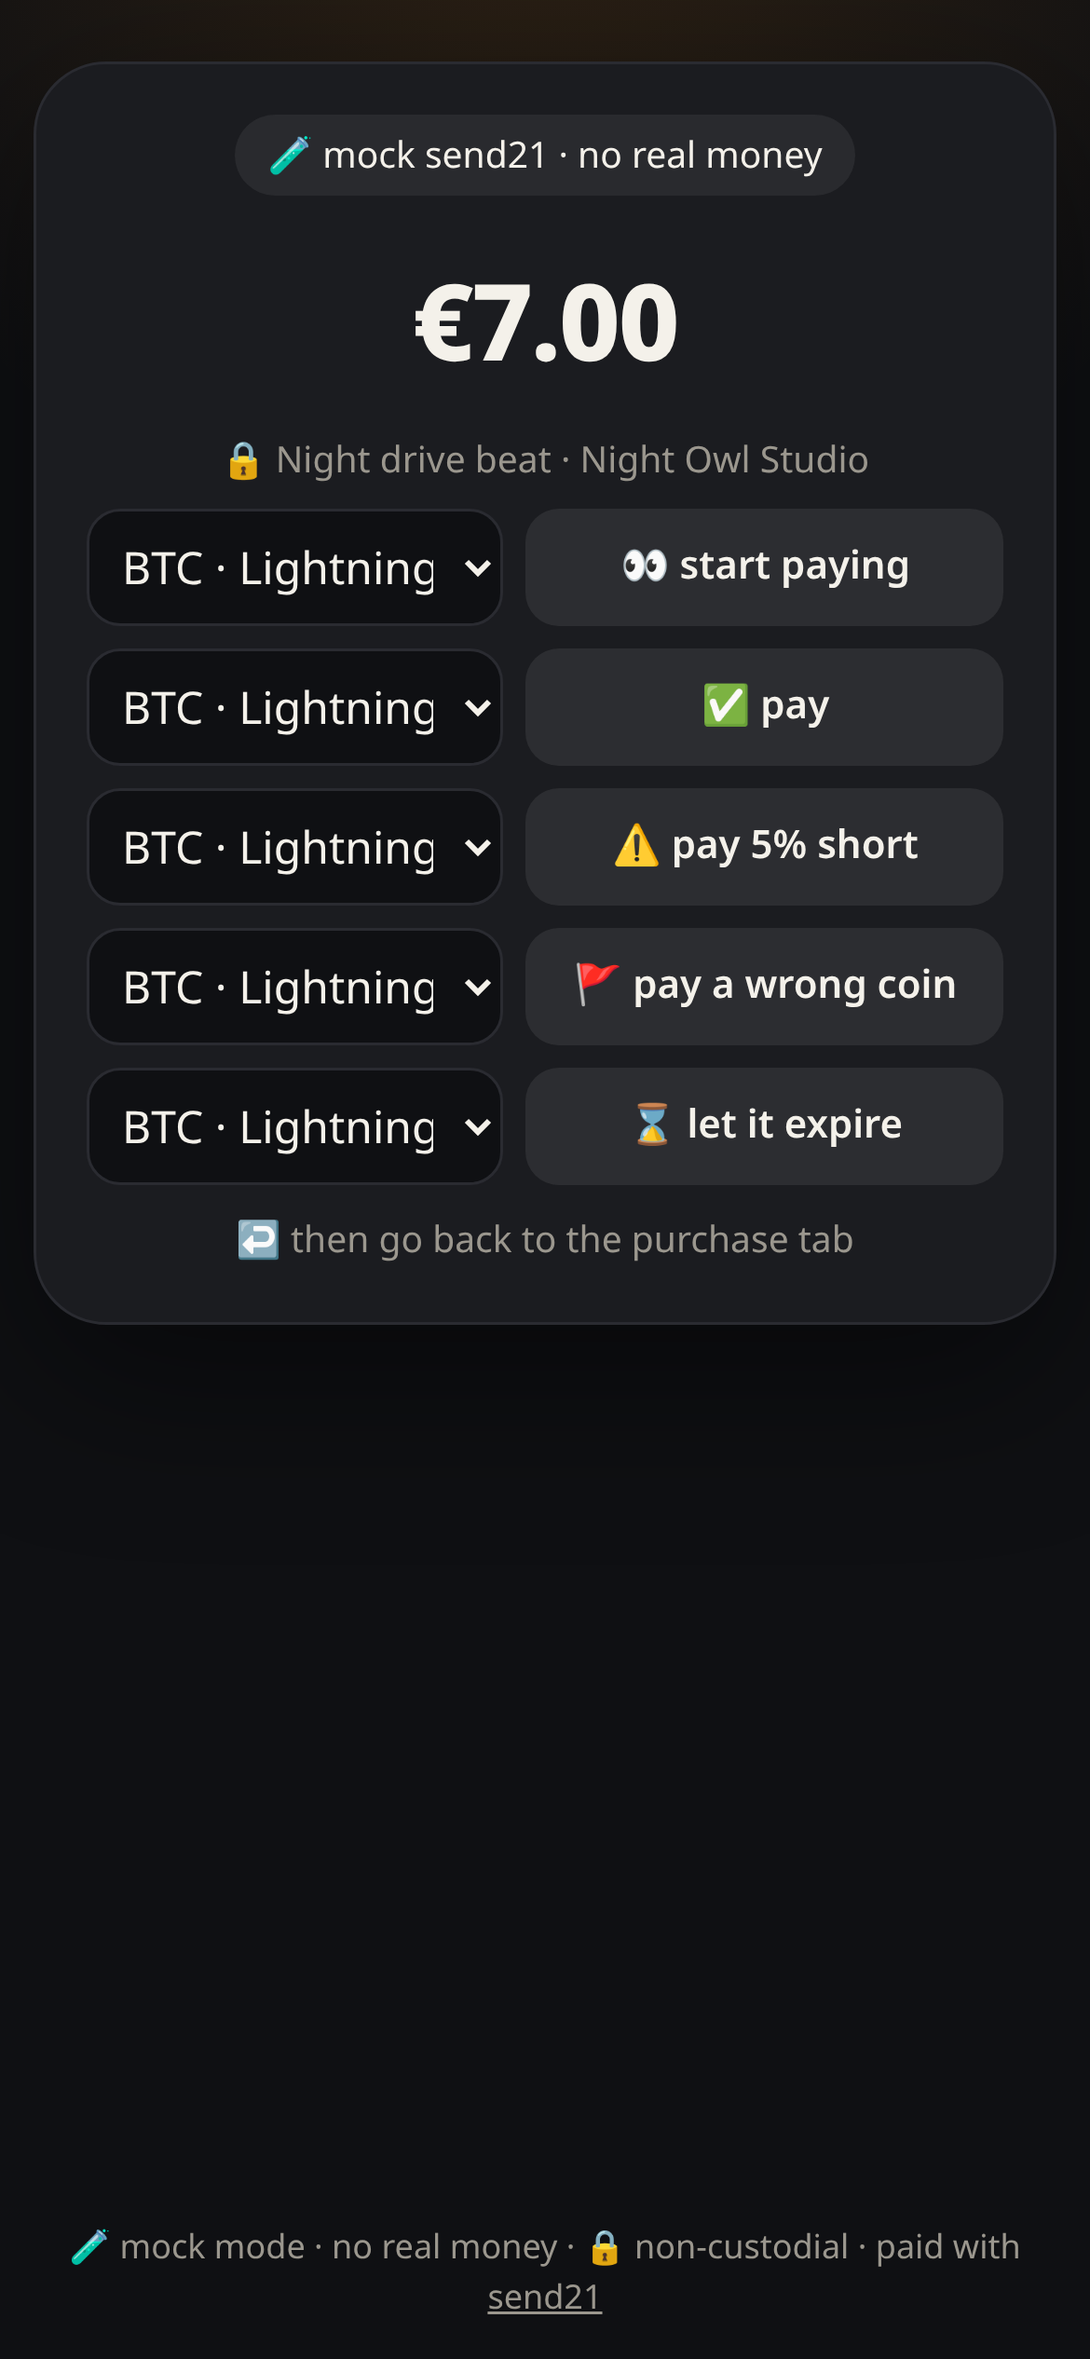
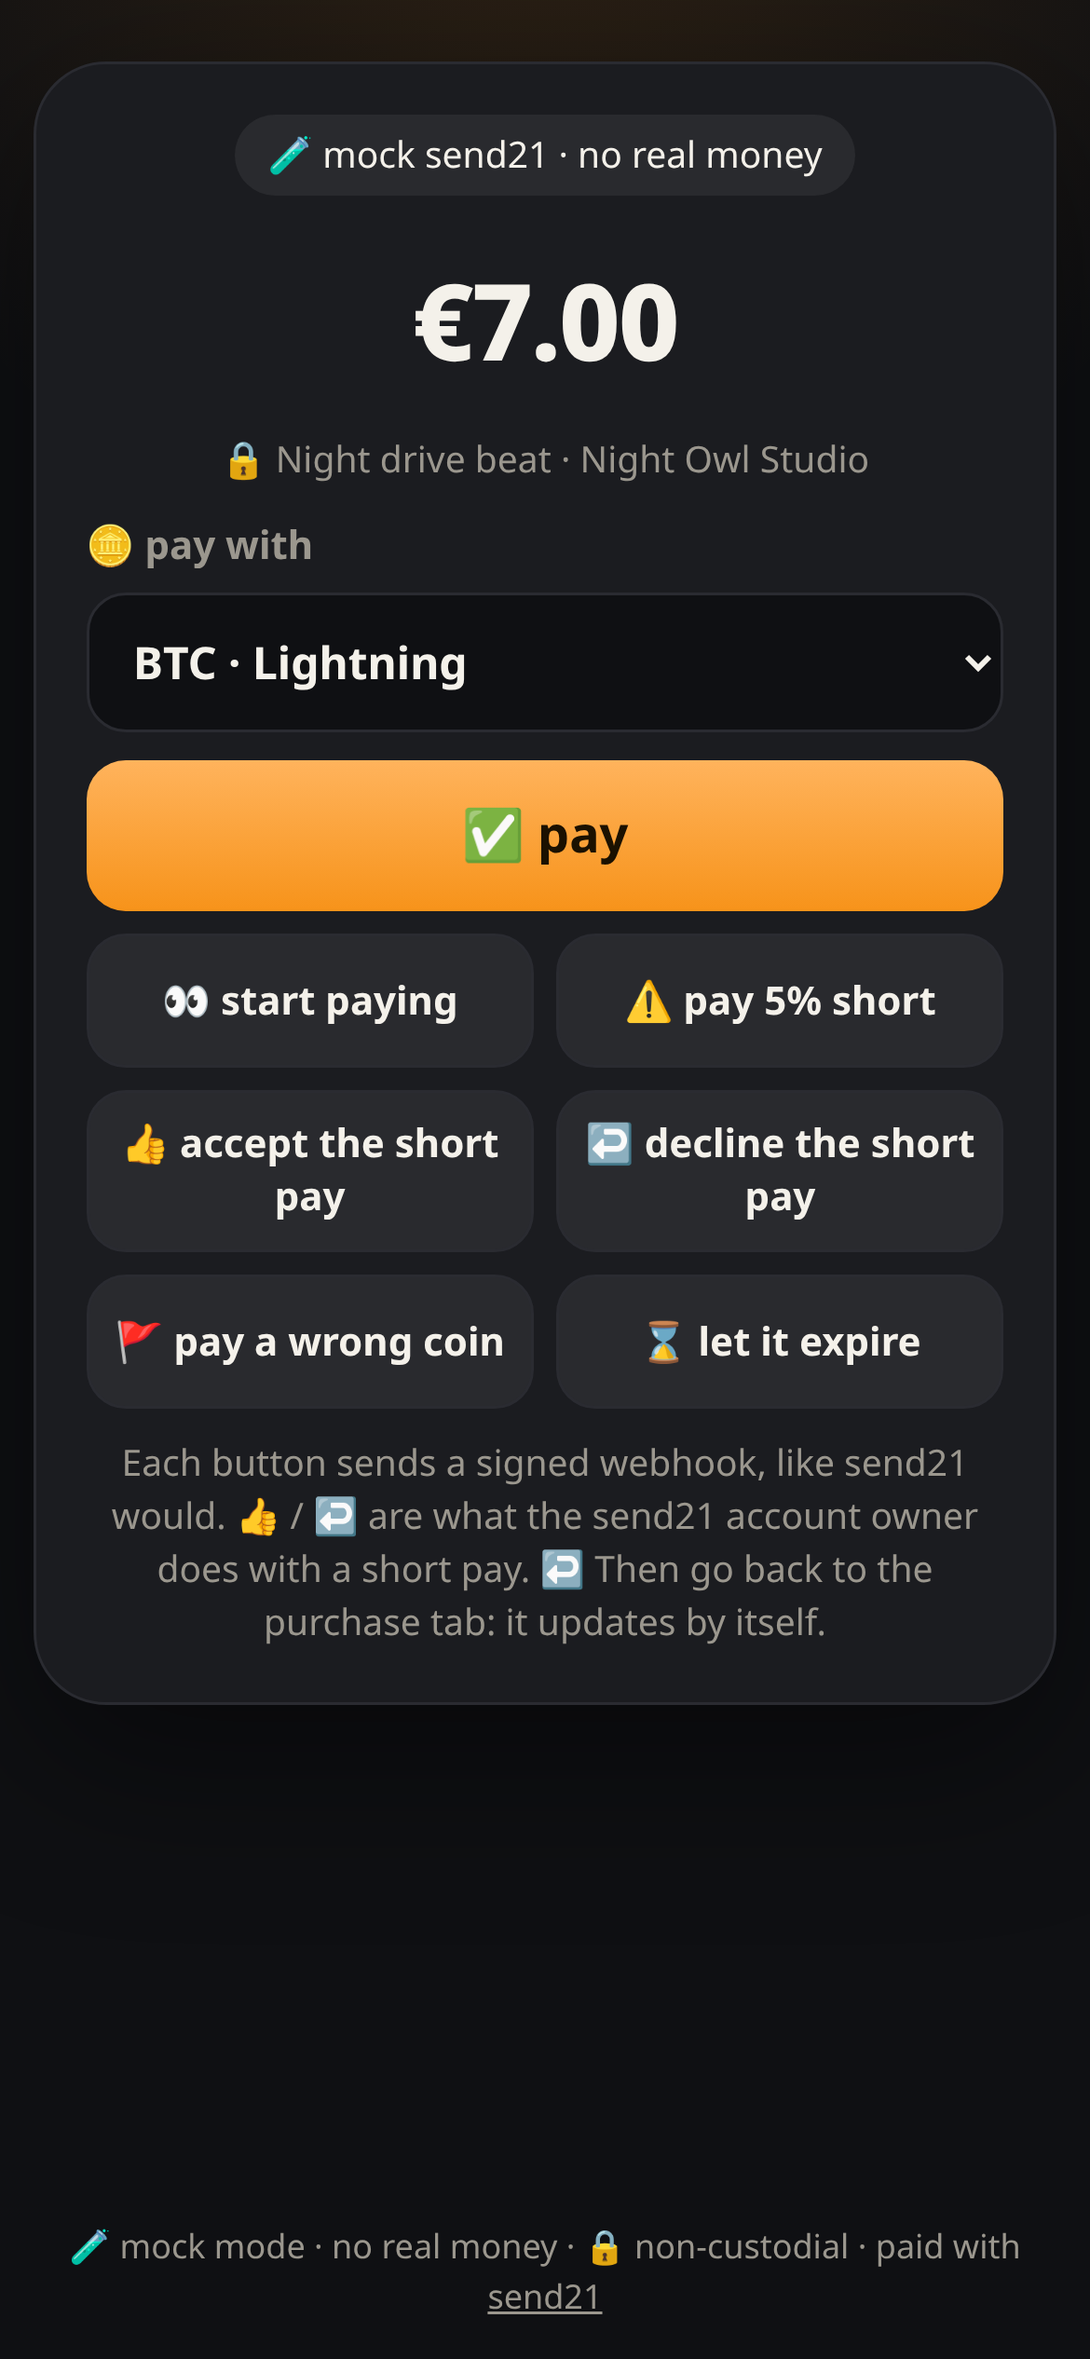
ux: wider centered catalog, clearer mock pay page, ways back from dead ends
- mock pay page: one coin picker, 👍 accept / ↩ decline for short pays,
  unknown actions 404 instead of silently expiring the purchase
- catalog: centered grid that uses desktop width, subtitle, empty state,
  smaller lock badge that no longer covers the file emoji, hover lift
- expired/used/unknown download pages get a 🛍 browse files button
- visible orange focus ring, favicon (no more 404 on every page)
- refreshed strip and mock pay screenshots

Changed region(s): [[0.0615, 0.2184, 0.9231, 0.7176], [0.5231, 0.468, 0.8923, 0.5304]]

diff --git a/src/pages.ts b/src/pages.ts
@@ -7,11 +7,11 @@ import type { Catalog, FileItem, PayOption, Purchase } from "./types.js";
 
 export const esc = (s: unknown) => String(s).replace(/[&<>"']/g, (c) => `&#${c.charCodeAt(0)};`);
 
-export function layout(title: string, body: string, opts: { script?: string; mock?: boolean } = {}): string {
+export function layout(title: string, body: string, opts: { script?: string; mock?: boolean; wide?: boolean } = {}): string {
   return `<!doctype html>
 <html lang="en"><head><meta charset="utf-8"><meta name="viewport" content="width=device-width,initial-scale=1">
-<title>${esc(title)}</title><meta name="robots" content="noindex"><link rel="stylesheet" href="/paywall.css">${opts.script ? `<script src="${esc(opts.script)}" defer></script>` : ""}</head>
-<body><main class="wrap">${body}</main>
+<title>${esc(title)}</title><meta name="robots" content="noindex"><meta name="theme-color" content="#0f1013"><link rel="icon" href="data:,"><link rel="stylesheet" href="/paywall.css">${opts.script ? `<script src="${esc(opts.script)}" defer></script>` : ""}</head>
+<body><main class="wrap${opts.wide ? " wide" : ""}">${body}</main>
 <footer class="foot">${opts.mock ? "🧪 mock mode · no real money · " : ""}🔒 non-custodial · paid with <a href="https://send21.io">send21</a></footer></body></html>`;
 }
 
@@ -28,9 +28,9 @@ const meta = (f: FileItem) => `<p class="meta">${esc(kindLabel(f.kind))} · ${es
 export function indexPage(c: Catalog, mock: boolean): string {
   return layout(
     c.creator,
-    `<header class="hero"><p class="kicker">🛍 files by</p><h1>${esc(c.creator)}</h1></header>
-<ul class="grid">${c.files.map((f) => `<li><a class="mini" href="/f/${esc(f.slug)}">${fileTile(f, true)}<b>${esc(f.title)}</b><span>${esc(formatFiat(f.price, c.currency))}</span></a></li>`).join("")}</ul>`,
-    { mock },
+    `<header class="hero"><p class="kicker">🛍 files by</p><h1>${esc(c.creator)}</h1><p class="sub">🔓 pay once with crypto · ⬇ download right away · no account</p></header>
+${c.files.length ? `<ul class="grid">${c.files.map((f) => `<li><a class="mini" href="/f/${esc(f.slug)}">${fileTile(f, true)}<b>${esc(f.title)}</b><span class="p">${esc(formatFiat(f.price, c.currency))}</span></a></li>`).join("")}</ul>` : '<article class="card center"><p class="huge">📭</p><p>no files yet</p><p class="small">add one with <code>npm run file:add</code></p></article>'}`,
+    { mock, wide: true },
   );
 }
 
@@ -99,7 +99,7 @@ const TOKEN_ERR = {
 
 export function tokenErrorPage(kind: keyof typeof TOKEN_ERR, mock: boolean): string {
   const [icon, title, why] = TOKEN_ERR[kind];
-  return layout(title, `<article class="card center"><p class="huge">${icon}</p><h1>${esc(title)}</h1><p class="small">${esc(why)}</p><p class="small">🔖 Open your purchase page again for a fresh link.</p></article>`, { mock });
+  return layout(title, `<article class="card center"><p class="huge">${icon}</p><h1>${esc(title)}</h1><p class="small">${esc(why)}</p><p class="small">🔖 Open your purchase page again for a fresh link.</p><a class="cta ghost" href="/">🛍 browse files</a></article>`, { mock });
 }
 
 export function errorPage(msg: string, mock: boolean): string {
@@ -136,15 +136,17 @@ ${review.length ? `<h2>🚩 Review</h2><ul class="list">${review.map((p) => `<li
 
 // ---------- mock send21 pay page ----------
 
-export function mockPayPage(entry: { fiatAmount: number; fiatCurrency: string; memo: string; options: PayOption[] }, token: string): string {
+export function mockPayPage(entry: { fiatAmount: number; fiatCurrency: string; memo: string; options: PayOption[] }, token: string, sent?: { ok: boolean; events: string }): string {
   const t = esc(token);
   const coins = entry.options.map((o, i) => `<option value="${i}">${esc(`${o.currency.toUpperCase()} · ${o.method ?? o.network}`)}</option>`).join("");
-  const actions = [["seen", "👀 start paying"], ["paid", "✅ pay"], ["short", "⚠ pay 5% short"], ["wrong", "🚩 pay a wrong coin"], ["expire", "⌛ let it expire"]];
+  const actions = [["paid", "✅ pay"], ["seen", "👀 start paying"], ["short", "⚠ pay 5% short"], ["accept", "👍 accept the short pay"], ["decline", "↩ decline the short pay"], ["wrong", "🚩 pay a wrong coin"], ["expire", "⌛ let it expire"]];
   return layout(
     "mock pay · send21",
     `<article class="card center"><p class="pill">🧪 mock send21 · no real money</p><p class="price">${esc(formatFiat(entry.fiatAmount, entry.fiatCurrency))}</p><p class="small">${esc(entry.memo)}</p>
-${actions.map(([a, l]) => `<form class="mockrow" method="post" action="/mock/pay/${t}/${a}"><select name="coin" aria-label="coin">${coins}</select><button>${l}</button></form>`).join("")}
-<p class="small">↩ then go back to the purchase tab</p></article>`,
+${sent ? `<p class="pill ${sent.ok ? "ok" : "bad"}" role="status">${sent.ok ? "📨 sent" : "❌ refused"} <code>${esc(sent.events)}</code></p>` : ""}
+<form method="post" action="/mock/pay/${t}/paid" class="mockform"><label for="coin">🪙 pay with</label><select id="coin" name="coin">${coins}</select>
+<div class="acts">${actions.map(([a, l]) => `<button formaction="/mock/pay/${t}/${a}"${a === "paid" ? ' class="main"' : ""}>${l}</button>`).join("")}</div></form>
+<p class="small">Each button sends a signed webhook, like send21 would. 👍 / ↩ are what the send21 account owner does with a short pay. ↩ Then go back to the purchase tab: it updates by itself.</p></article>`,
     { mock: true },
   );
 }

diff --git a/src/server.ts b/src/server.ts
@@ -286,22 +286,30 @@ function mountMockPay(app: Express, secret: string, mock: NonNullable<AppDeps["m
       res.status(404).type("html").send(errorPage("🤷 unknown pay link", true));
       return;
     }
-    const body = mockEvent(entry, Number((req.body as { coin?: string })?.coin ?? 0), String(req.params.action));
-    const raw = JSON.stringify(body);
-    const deliveryId = randomUUID();
-    const r = await fetch(`${mock.selfUrl}/webhooks/send21`, {
-      method: "POST",
-      headers: { "content-type": "application/json", "x-send21-event": body.event, "x-send21-delivery": deliveryId, "x-send21-signature-v2": signV2(raw, deliveryId, Math.floor(Date.now() / 1000), secret) },
-      body: raw,
-    });
-    res.type("html").send(mockPayPage(entry.body, String(req.params.token)).replace("<p class=\"small\">↩", `<p class="pill">${r.ok ? "📨 sent" : "❌"} ${body.event}</p><p class="small">↩`));
+    const list = mockEvents(entry, Number((req.body as { coin?: string })?.coin ?? 0), String(req.params.action));
+    if (!list) {
+      res.status(404).type("html").send(errorPage("🤷 unknown mock action", true));
+      return;
+    }
+    let r = { ok: false, status: 0 };
+    for (const body of list) {
+      const raw = JSON.stringify(body);
+      const deliveryId = randomUUID();
+      r = await fetch(`${mock.selfUrl}/webhooks/send21`, {
+        method: "POST",
+        headers: { "content-type": "application/json", "x-send21-event": body.event, "x-send21-delivery": deliveryId, "x-send21-signature-v2": signV2(raw, deliveryId, Math.floor(Date.now() / 1000), secret) },
+        body: raw,
+      });
+      if (!r.ok) break;
+    }
+    res.status(r.ok ? 200 : 502).type("html").send(mockPayPage(entry.body, String(req.params.token), { ok: r.ok, events: list.map((b) => b.event).join(" → ") }));
   });
 }
 
 type MockEntry = NonNullable<ReturnType<ReturnType<typeof createMockClient>["requests"]["get"]>>;
 
-/** A webhook body shaped like send21's (docs/webhooks "Payload"), for one simulated action. */
-export function mockEvent(entry: MockEntry, coin: number, action: string) {
+/** Webhook bodies shaped like send21's (docs/webhooks "Payload") for one simulated action, or null for an unknown one. */
+export function mockEvents(entry: MockEntry, coin: number, action: string): { event: string; data: Record<string, unknown> }[] | null {
   const option = entry.body.options[coin] ?? entry.body.options[0]!;
   const units = option.currency === "Btc" ? 1e8 : option.currency === "Sol" || option.currency === "Eth" ? 1e9 : 1e6;
   const price = option.currency === "Btc" ? 60000 : option.currency === "Eth" ? 3000 : option.currency === "Sol" ? 150 : 1;
@@ -318,17 +326,28 @@ export function mockEvent(entry: MockEntry, coin: number, action: string) {
     sentAmount: (amountSats / units).toFixed(Math.log10(units)),
     occurredAt: new Date().toISOString(),
   };
+  const short = Math.round(amountSats * 0.95);
   const confirmed = { event: "draft.confirmed", data: { ...base, status: "Confirmed", txId: `mock-${randomUUID()}`, confirmations: 1 } };
   switch (action) {
     case "paid":
-      return confirmed;
+      return [confirmed];
     case "wrong": // a confirmed payment in a coin this purchase never offered: must be 🚩, never unlocked
-      return { ...confirmed, data: { ...confirmed.data, sentCurrency: "ETH", network: "Arbitrum" } };
+      return [{ ...confirmed, data: { ...confirmed.data, sentCurrency: "ETH", network: "Arbitrum" } }];
     case "seen":
-      return { event: "draft.seen", data: { ...base, status: "Seen", txId: `mock-${randomUUID()}`, confirmations: 0 } };
+      return [{ event: "draft.seen", data: { ...base, status: "Seen", txId: `mock-${randomUUID()}`, confirmations: 0 } }];
     case "short":
-      return { event: "draft.amount_mismatch", data: { ...base, status: "AwaitingPayment", reviewState: "pending", receivedAmountSats: Math.round(amountSats * 0.95) } };
+      return [{ event: "draft.amount_mismatch", data: { ...base, status: "AwaitingPayment", reviewState: "pending", receivedAmountSats: short } }];
+    // What the send21 account owner does with a short pay: accept (then draft.confirmed) or decline.
+    case "accept":
+      return [
+        { event: "draft.mismatch_accepted", data: { ...base, status: "AwaitingPayment", reviewState: "accepted", acceptReason: "close enough", receivedAmountSats: short } },
+        { ...confirmed, data: { ...confirmed.data, receivedAmountSats: short } },
+      ];
+    case "decline":
+      return [{ event: "draft.mismatch_rejected", data: { ...base, status: "AwaitingPayment", reviewState: "rejected", rejectReason: "too short", refund: "manual", receivedAmountSats: short } }];
+    case "expire":
+      return [{ event: "payment_request.expired", data: { paymentRequestId: entry.response.id, orderId: entry.body.orderId, opened: true, quoteRequested: false } }];
     default:
-      return { event: "payment_request.expired", data: { paymentRequestId: entry.response.id, orderId: entry.body.orderId, opened: true, quoteRequested: false } };
+      return null;
   }
 }

diff --git a/public/paywall.css b/public/paywall.css
@@ -5,6 +5,8 @@ body { margin: 0; min-height: 100vh; color: var(--ink); font: 16px/1.45 system-u
   background: radial-gradient(120% 60% at 50% -10%, #f7931a26, transparent 60%), var(--bg); display: flex; flex-direction: column; }
 a { color: var(--orange2); }
 .wrap { width: min(94vw, 440px); margin: 0 auto; padding: 22px 0 10px; flex: 1; }
+.wrap.wide { width: min(94vw, 960px); }
+.sub { color: var(--muted); margin: 0; font-size: 15px; }
 .foot { text-align: center; color: var(--muted); font-size: 12px; padding: 14px; }
 .foot a { color: var(--muted); }
 .hero { text-align: center; margin: 10px 0 18px; }
@@ -43,11 +45,16 @@ h2 { font-size: 15px; color: var(--muted); margin: 22px 0 8px; font-weight: 600;
 .s-expired { background: #ffffff10; color: var(--muted); }
 .qr { display: block; margin: 4px auto 14px; border-radius: 16px; background: #fff; padding: 8px; width: 220px; height: 220px; }
 .huge { font-size: 64px; margin: 6px 0; }
-.grid { list-style: none; padding: 0; display: grid; grid-template-columns: 1fr 1fr; gap: 12px; }
+.grid { list-style: none; padding: 0; display: grid; grid-template-columns: repeat(auto-fit, minmax(210px, 260px)); justify-content: center; gap: 14px; }
+@media (max-width: 480px) { .grid { grid-template-columns: 1fr 1fr; gap: 12px; } }
 .mini { display: flex; flex-direction: column; gap: 2px; background: var(--card); border: 1px solid var(--line); border-radius: 20px; padding: 10px; color: var(--ink); text-decoration: none; }
 .mini .tile { height: 110px; margin-bottom: 6px; }
 .mini .big { font-size: 48px; }
-.mini span { color: var(--orange2); font-weight: 700; }
+.mini .p { color: var(--orange2); font-weight: 700; }
+.mini { transition: transform .15s ease, border-color .15s ease; }
+.mini:hover, .mini:focus-visible { transform: translateY(-3px); border-color: #f7931a66; }
+.mini .tile .lock { top: 8px; right: 8px; bottom: auto; font-size: 15px; padding: 2px 7px; border-radius: 10px; }
+@media (prefers-reduced-motion: reduce) { .mini { transition: none; } .mini:hover { transform: none; } }
 .stack { display: flex; flex-direction: column; gap: 10px; }
 input { background: #0f1013; color: var(--ink); border: 1px solid var(--line); border-radius: 14px; padding: 12px; font: inherit; }
 .stats { list-style: none; padding: 0; display: grid; grid-template-columns: 1fr 1fr; gap: 10px; }
@@ -65,6 +72,13 @@ input { background: #0f1013; color: var(--ink); border: 1px solid var(--line); b
 code { font: 12px ui-monospace, monospace; color: var(--muted); }
 .problems { margin: 6px 0 0; padding-left: 18px; color: #ffb3b3; font-size: 12px; }
 .mini-btn { border: 0; border-radius: 12px; padding: 8px 10px; font: 700 13px system-ui, sans-serif; background: var(--orange); color: #1b1100; cursor: pointer; white-space: nowrap; }
-.mockrow { display: flex; gap: 8px; margin: 8px 0; }
-.mockrow select { flex: 1; min-width: 0; background: #0f1013; color: var(--ink); border: 1px solid var(--line); border-radius: 12px; padding: 8px; font: inherit; }
-.mockrow button { flex: 0 0 52%; border: 0; border-radius: 12px; padding: 9px; background: #ffffff14; color: var(--ink); font: 600 14px system-ui, sans-serif; cursor: pointer; }
+.mockform { text-align: left; margin-top: 12px; }
+.mockform label { display: block; color: var(--muted); font-weight: 700; font-size: 14px; margin-bottom: 6px; }
+.mockform select { width: 100%; background: #0f1013; color: var(--ink); border: 1px solid var(--line); border-radius: 14px; padding: 12px; font: inherit; font-weight: 700; }
+.acts { display: grid; grid-template-columns: 1fr 1fr; gap: 8px; margin-top: 10px; }
+.acts button { min-height: 48px; border: 1px solid var(--line); border-radius: 14px; padding: 9px; background: #ffffff10; color: var(--ink); font: 700 14px system-ui, sans-serif; cursor: pointer; }
+.acts .main { grid-column: 1 / -1; min-height: 54px; font-size: 18px; border: 0; background: linear-gradient(180deg, var(--orange2), var(--orange)); color: #1b1100; }
+.acts button:last-child:nth-child(even) { grid-column: 1 / -1; }
+.pill.ok { background: #3ddc8422; color: var(--ok); }
+.pill.bad { background: #ff6b6b22; color: var(--bad); }
+:focus-visible { outline: 3px solid var(--orange); outline-offset: 2px; }

diff --git a/test/mock.test.ts b/test/mock.test.ts
@@ -1,0 +1,53 @@
+import { describe, expect, it } from "vitest";
+import { world } from "./helpers.js";
+
+async function setup() {
+  const w = await world();
+  const { page, purchase } = await w.buy();
+  const token = /\/mock\/pay\/([^/?#]+)/.exec(purchase().payUrl!)![1]!;
+  const act = (a: string) => w.post(`/mock/pay/${token}/${a}`, { coin: "1" });
+  return { w, page, purchase, token, act };
+}
+
+describe("🧪 mock pay page", () => {
+  it("one coin picker and every action", async () => {
+    const { w, token } = await setup();
+    const html = await (await w.get(`/mock/pay/${token}`)).text();
+    expect(html.match(/<select/g)).toHaveLength(1);
+    for (const a of ["paid", "seen", "short", "accept", "decline", "wrong", "expire"]) expect(html).toContain(`/mock/pay/${token}/${a}`);
+    await w.close();
+  });
+
+  it("⚠ short → 👍 accept unlocks, short → ↩ decline does not", async () => {
+    const one = await setup();
+    await one.act("short");
+    expect(one.purchase().status).toBe("review");
+    const r = await one.act("accept");
+    expect(await r.text()).toContain("draft.mismatch_accepted → draft.confirmed");
+    expect(one.purchase().status).toBe("paid");
+    await one.w.close();
+
+    const two = await setup();
+    await two.act("short");
+    await two.act("decline");
+    expect(two.purchase().status).toBe("declined");
+    await two.w.close();
+  });
+
+  it("an unknown action is a 404, not an expiry", async () => {
+    const { w, act, purchase } = await setup();
+    expect((await act("nope")).status).toBe(404);
+    expect(purchase().status).toBe("open");
+    await w.close();
+  });
+});
+
+describe("pages", () => {
+  it("token errors offer a way back, pages have no favicon 404", async () => {
+    const w = await world();
+    const html = await (await w.get("/dl/nope")).text();
+    expect(html).toContain('href="/"');
+    expect(html).toContain('rel="icon"');
+    await w.close();
+  });
+});

diff --git a/README.md b/README.md
@@ -12,7 +12,7 @@
 
 ## Quickstart
 
-1. **Try it now, no keys:** `npm install && npm run dev`, open http://localhost:3000. Mock mode makes three sample files: 🔓 unlock one, tap 💳 Pay, press ✅ pay on the mock page, and the purchase tab unlocks by itself. Seller view: http://localhost:3000/seller/demo.
+1. **Try it now, no keys:** `npm install && npm run dev`, open http://localhost:3000. Mock mode makes three sample files: 🔓 unlock one, tap 💳 Pay, press ✅ pay on the mock page, and the purchase tab unlocks by itself. Also try ⚠ short → 👍 accept / ↩ decline, 🚩 wrong coin or ⌛ expire. Seller view: http://localhost:3000/seller/demo.
 2. **send21 key.** On [send21.io/api-keys](https://send21.io/api-keys), create a key with `drafts:write` (add `webhooks:manage` for step 4).
 3. **Configure.** `cp .env.example .env`: the key, `PUBLIC_URL`, your own receiving addresses (`PAY_LIGHTNING=you@your-wallet.com`, `PAY_OPTIONS=usdc-sol:<address>`), and two secrets: `DOWNLOAD_SECRET` and `SELLER_TOKEN` (`openssl rand -hex 32`).
 4. **Webhook.** Put the server behind your own HTTPS address (for example a reverse proxy with a free Let's Encrypt certificate and `TRUST_PROXY=1`), then `npm run webhook:register` and paste the printed `SEND21_WEBHOOK_SECRET` into `.env`.
